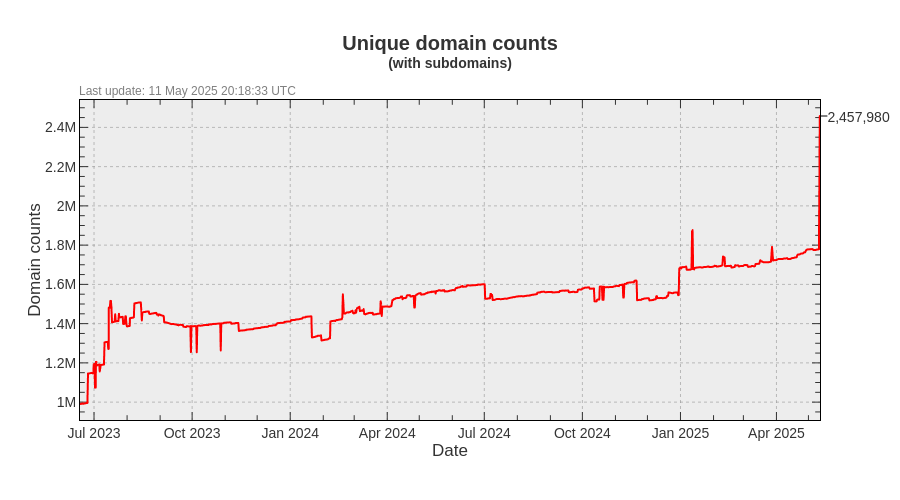
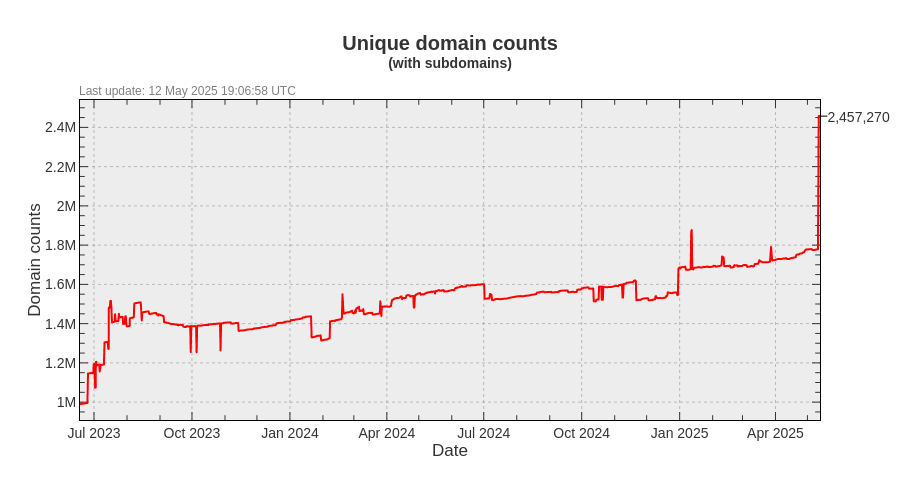
Update pages

diff --git a/README.md b/README.md
@@ -3,23 +3,23 @@ A blocklist file for blocking ads, trackers and malware domains.
 
[1 lines of base64/hex data omitted]
 
-- Unique domains: 2,457,980
-- Without subdomains: 1,829,366
-- Last update: 11 May 2025 20:18:33 UTC
-- Version: 2025.05.11.02
+- Unique domains: 2,457,270
+- Without subdomains: 1,830,277
+- Last update: 12 May 2025 19:06:58 UTC
+- Version: 2025.05.12.01
 
 
 ### Downloads:
 
 | Format             | Domain count      | Download Link |
 |:------------------ | -----------------:|:-------------:|
-| *Adblock Plus*     | 1,829,366 | [Download](https://raw.githubusercontent.com/cenk/bad-hosts/main/bad-hosts-abp) |
-| *Wildcard domains* | 1,829,366 | [Download](https://raw.githubusercontent.com/cenk/bad-hosts/main/bad-hosts-wildcard) |
-| *dnsmasq*          | 1,829,366 | [Download](https://raw.githubusercontent.com/cenk/bad-hosts/main/bad-hosts-dnsmasq) |
-| *Unbound*          | 1,829,366 | [Download](https://raw.githubusercontent.com/cenk/bad-hosts/main/bad-hosts-unbound) |
-| *hosts*            | 2,457,980 | [Download](https://raw.githubusercontent.com/cenk/bad-hosts/main/hosts) |
-| *hosts (ipv6)*     | 2,457,980 | [Download](https://raw.githubusercontent.com/cenk/bad-hosts/main/hosts-ipv6) |
-| *Plain domains*    | 2,457,980 | [Download](https://raw.githubusercontent.com/cenk/bad-hosts/main/bad-hosts-domains) |
+| *Adblock Plus*     | 1,830,277 | [Download](https://raw.githubusercontent.com/cenk/bad-hosts/main/bad-hosts-abp) |
+| *Wildcard domains* | 1,830,277 | [Download](https://raw.githubusercontent.com/cenk/bad-hosts/main/bad-hosts-wildcard) |
+| *dnsmasq*          | 1,830,277 | [Download](https://raw.githubusercontent.com/cenk/bad-hosts/main/bad-hosts-dnsmasq) |
+| *Unbound*          | 1,830,277 | [Download](https://raw.githubusercontent.com/cenk/bad-hosts/main/bad-hosts-unbound) |
+| *hosts*            | 2,457,270 | [Download](https://raw.githubusercontent.com/cenk/bad-hosts/main/hosts) |
+| *hosts (ipv6)*     | 2,457,270 | [Download](https://raw.githubusercontent.com/cenk/bad-hosts/main/hosts-ipv6) |
+| *Plain domains*    | 2,457,270 | [Download](https://raw.githubusercontent.com/cenk/bad-hosts/main/bad-hosts-domains) |
 
 ### Domain count history
 #### With subdomains
